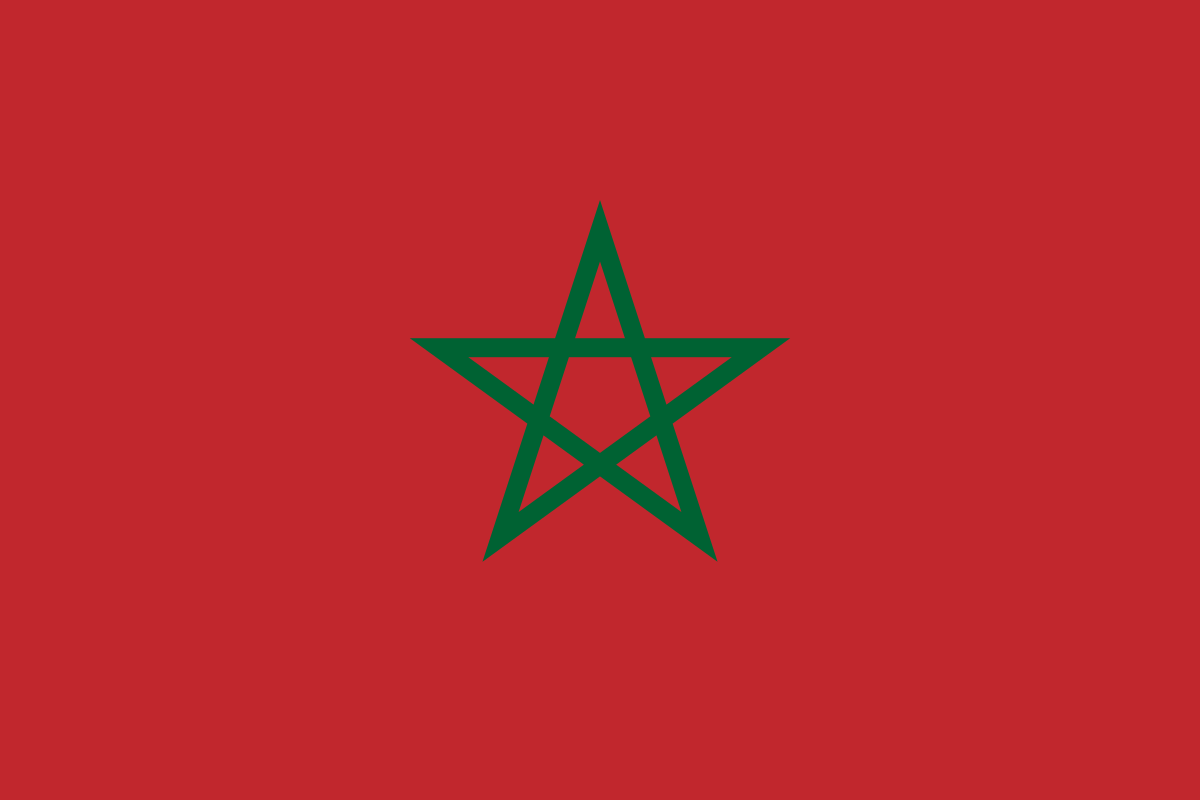
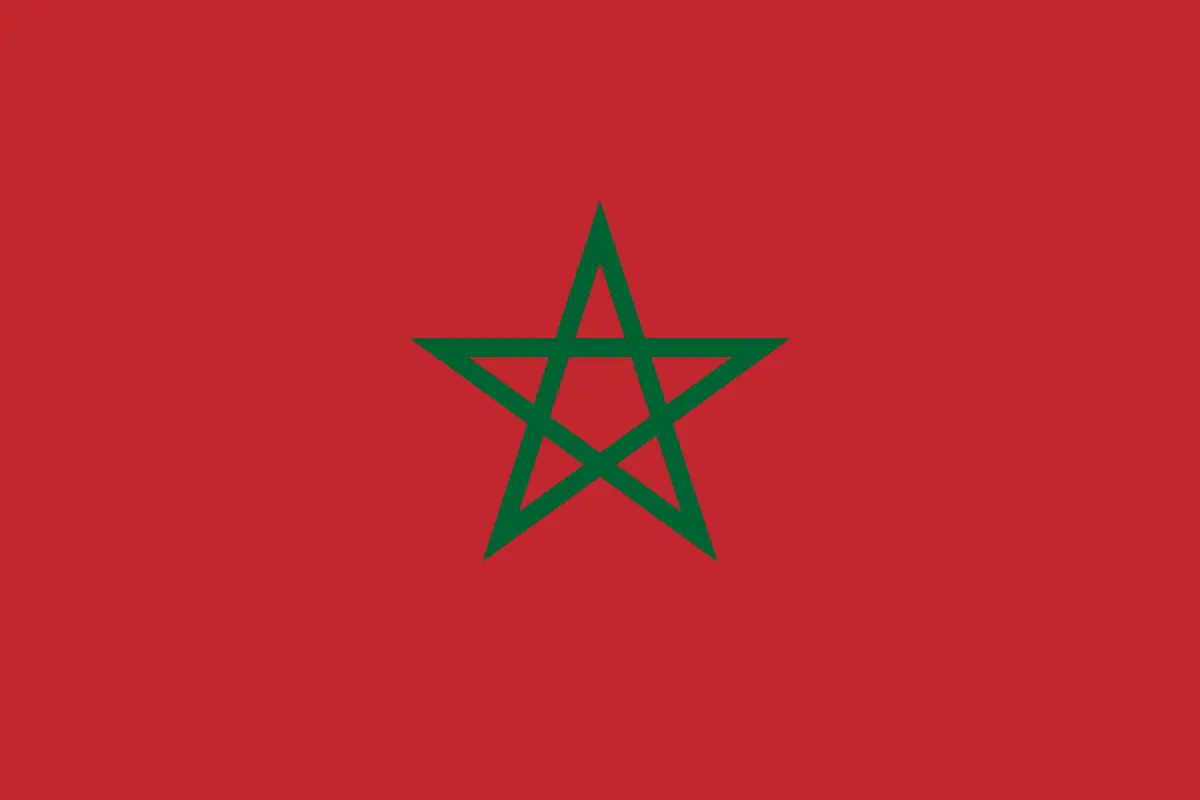
Optimize Pics
Optimize Pics

diff --git a/tailwind.config.js b/tailwind.config.js
@@ -12,9 +12,9 @@ export default {
             }
         },
         backgroundImage: {
-            'HomeBg': "url('/public/Images/Accueil.jpg')",
-            'CoachingBg': "url('/public/Images/coaching.png')",
-            'MassotherapieBg': "url('/public/Images/massotherapie.png')",
+            'HomeBg': "url('/public/Images/Accueil.webp')",
+            'CoachingBg': "url('/public/Images/coaching.webp')",
+            'MassotherapieBg': "url('/public/Images/massotherapie.webp')",
         },
     },
     plugins: [],

diff --git a/resources/views/Layouts/container.blade.php b/resources/views/Layouts/container.blade.php
@@ -61,7 +61,7 @@
                                 <div class="grid grid-rows-1 grid-cols-4 gap-x-4">
                                     <a class="relative" href="tel:+41795749525">
                                         <i class="text-[26px] w-[8vh] h-[8vh] border-2 rounded-full fa-solid fa-phone flex justify-center items-center m-auto my-5 xs:text-[10px] xs:border xs:w-[4vh] xs:h-[4vh] sm:text-[11px] sm:border sm:w-[4vh] sm:h-[4vh] md:text-[14px] md:border-2 md:w-[5vh] md:h-[5vh] lg:text-[24px] lg:w-[7vh] lg:h-[7vh]"></i>
-                                        <img loading="lazy" class="absolute right-0 w-1/2 xs:bottom-4 lg:bottom-3" src="{{ asset('Images/switzerland.png') }}" alt="">
+                                        <img loading="lazy" class="absolute right-0 w-1/2 xs:bottom-4 lg:bottom-3" src="{{ asset('Images/switzerland.webp') }}" alt="">
                                     </a>
                                     <a class="relative" href="tel:+212615450093">
                                         <i class="text-[26px] w-[8vh] h-[8vh] border-2 rounded-full fa-solid fa-phone flex justify-center items-center m-auto my-5 xs:text-[10px] xs:border xs:w-[4vh] xs:h-[4vh] sm:text-[11px] sm:border sm:w-[4vh] sm:h-[4vh] md:text-[14px] md:border-2 md:w-[5vh] md:h-[5vh] lg:text-[24px] lg:w-[7vh] lg:h-[7vh]"></i>

diff --git a/resources/views/Pages/contact.blade.php b/resources/views/Pages/contact.blade.php
@@ -25,7 +25,7 @@
                         <div class="grid grid-rows-1 grid-cols-4 gap-x-4">
                             <a class="relative" href="tel:+41795749525">
                                 <i class="text-[26px] w-[8vh] h-[8vh] border-2 rounded-full fa-solid fa-phone flex justify-center items-center m-auto my-5 xs:text-[10px] xs:border xs:w-[4vh] xs:h-[4vh] sm:text-[11px] sm:border sm:w-[4vh] sm:h-[4vh] md:text-[14px] md:border-2 md:w-[5vh] md:h-[5vh] lg:text-[24px] lg:w-[7vh] lg:h-[7vh]"></i>
-                                <img loading="lazy" class="absolute right-0 w-1/2 xs:bottom-4 lg:bottom-3" src="{{ asset('Images/switzerland.png') }}" alt="">
+                                <img loading="lazy" class="absolute right-0 w-1/2 xs:bottom-4 lg:bottom-3" src="{{ asset('Images/switzerland.webp') }}" alt="">
                             </a>
                             <a class="relative" href="tel:+212615450093">
                                 <i class="text-[26px] w-[8vh] h-[8vh] border-2 rounded-full fa-solid fa-phone flex justify-center items-center m-auto my-5 xs:text-[10px] xs:border xs:w-[4vh] xs:h-[4vh] sm:text-[11px] sm:border sm:w-[4vh] sm:h-[4vh] md:text-[14px] md:border-2 md:w-[5vh] md:h-[5vh] lg:text-[24px] lg:w-[7vh] lg:h-[7vh]"></i>
